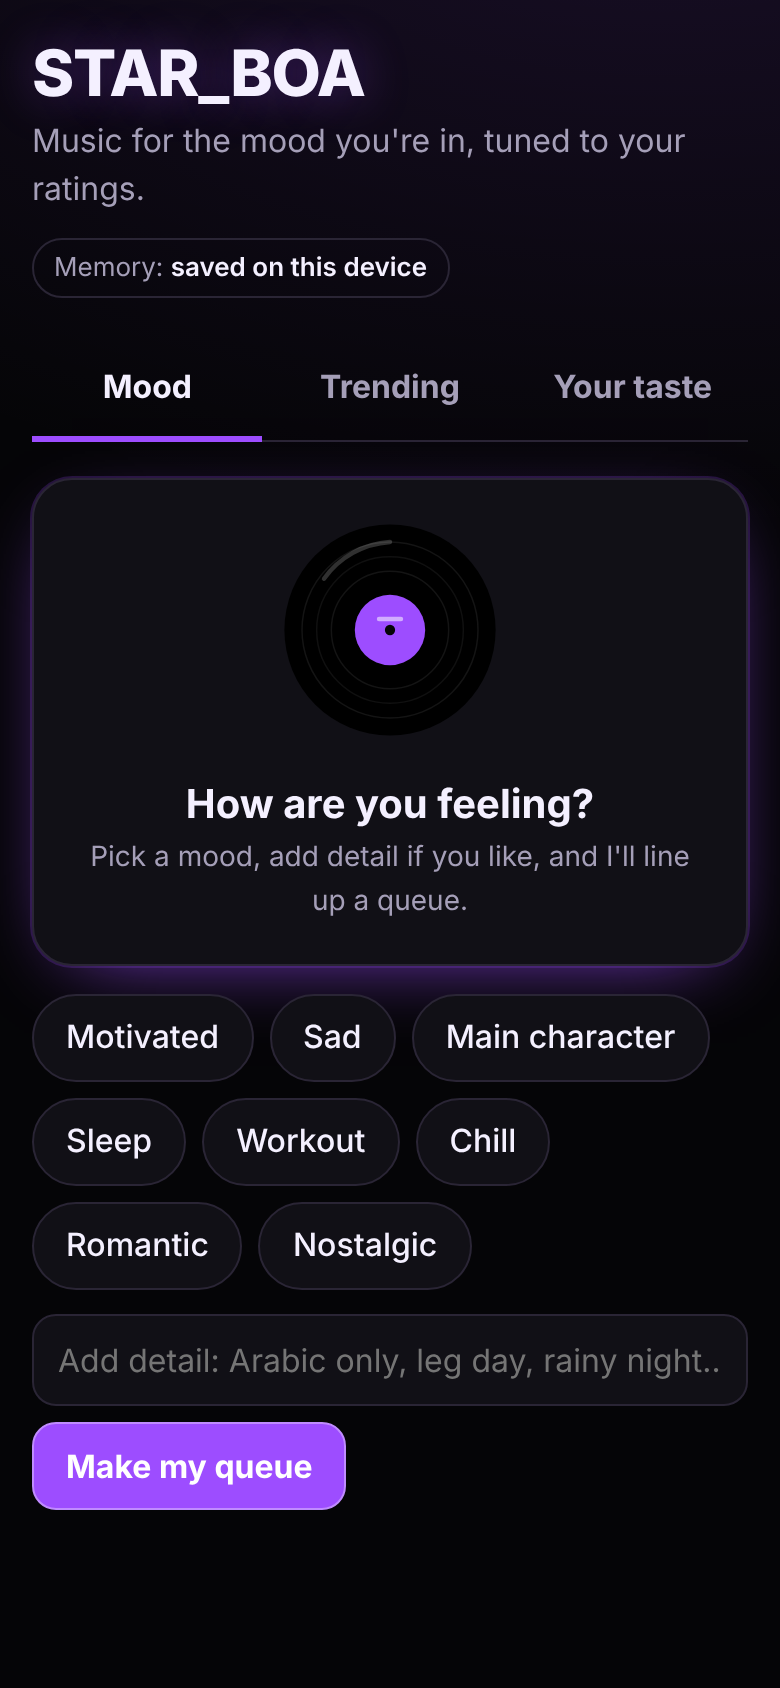
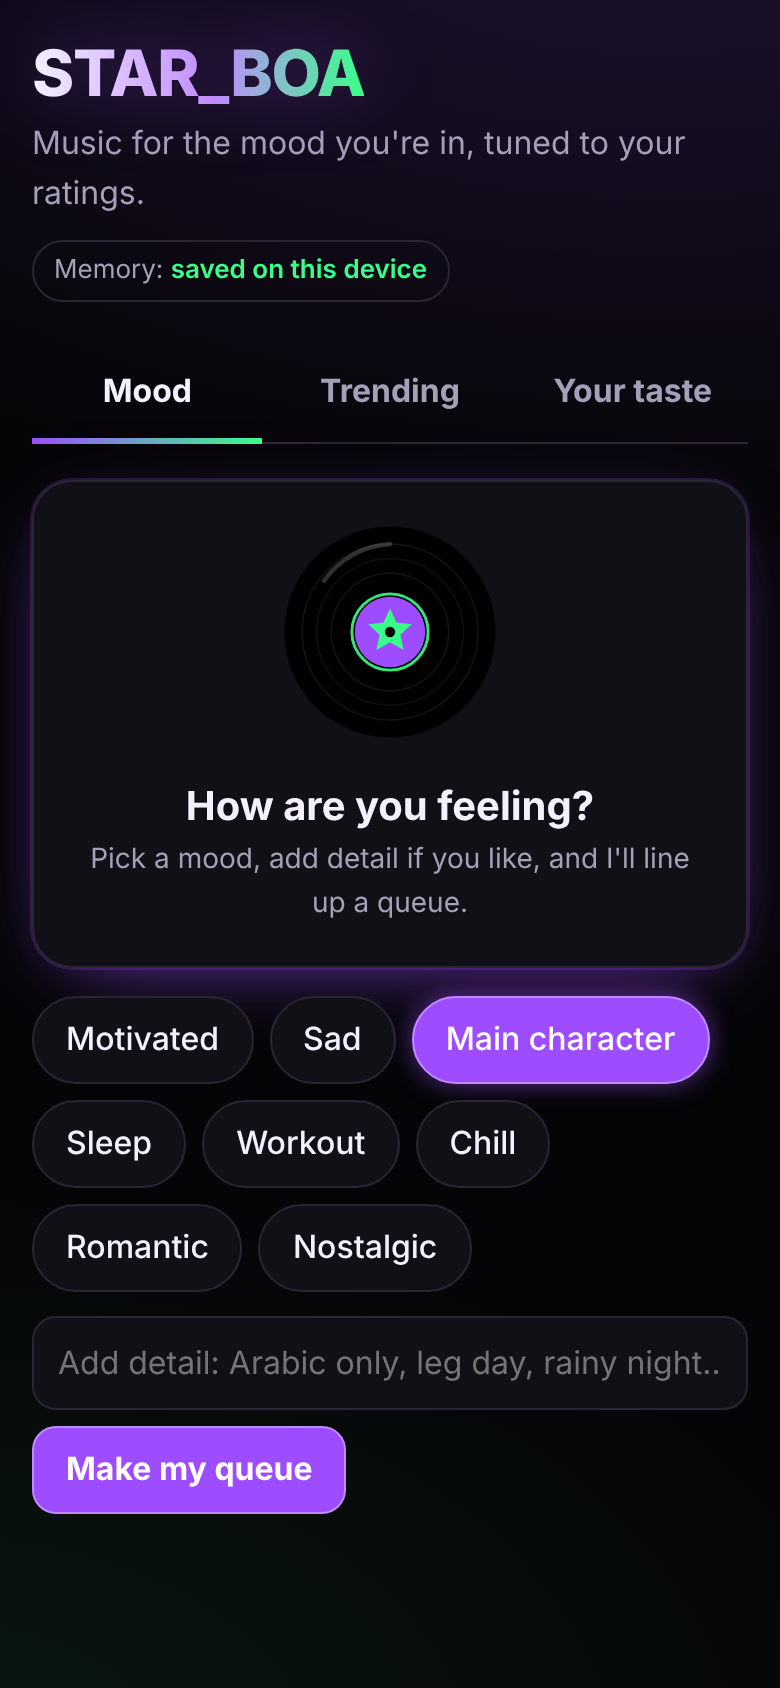
Neon green accents on black and electric purple
Claude-Session: https://claude.ai/code/session_01EesmnuVbHcScWLZNPH6eYi

diff --git a/public/styles.css b/public/styles.css
@@ -1,14 +1,19 @@
-/* STAR_BOA — black + electric purple */
+/* STAR_BOA — black, electric purple, neon green for the pop */
 :root {
   color-scheme: dark;
   --bg: #050507; --card: #111016; --ink: #f4f0ff; --mute: #a59fb8; --line: #2a2535;
   --acc: #9d4dff; --accHi: #c08bff; --glow: #9d4dff66;
+  --neon: #39ff88; --neonInk: #031a0c; --neonGlow: #39ff8866;
 }
 * { box-sizing: border-box; min-width: 0; }
 body {
   margin: 0; color: var(--ink); overflow-x: clip;
   font: 16px/1.55 Archivo, system-ui, sans-serif;
-  background: radial-gradient(900px 500px at 85% -10%, #9d4dff22, transparent 70%), var(--bg);
+  background:
+    radial-gradient(900px 500px at 85% -10%, #9d4dff2e, transparent 70%),
+    radial-gradient(700px 420px at -10% 105%, #39ff8814, transparent 70%),
+    var(--bg);
+  background-attachment: fixed;
   min-height: 100vh;
 }
 .wrap {
@@ -16,18 +21,20 @@ body {
   padding: max(20px, env(safe-area-inset-top)) max(4vw, 16px, env(safe-area-inset-right)) 64px max(4vw, 16px, env(safe-area-inset-left));
 }
 header { display: flex; align-items: center; justify-content: space-between; gap: 12px; flex-wrap: wrap; }
-h1 { font-size: clamp(32px, 7vw, 48px); line-height: 1.05; margin: 0; font-weight: 800; letter-spacing: -.02em; text-shadow: 0 0 24px var(--glow); }
+h1 { display: inline-block; font-size: clamp(32px, 7vw, 48px); line-height: 1.05; margin: 0; font-weight: 800; letter-spacing: -.02em;
+  background: linear-gradient(90deg, #f4f0ff 0%, #c08bff 55%, var(--neon) 100%); -webkit-background-clip: text; background-clip: text; color: transparent;
+  filter: drop-shadow(0 0 18px var(--glow)); }
 h2 { font-size: 22px; line-height: 1.2; margin: 28px 0 6px; }
 .h3 { font-size: 20px; margin: 0 0 4px; }
 .sub, .note { color: var(--mute); }
 .sub { margin: 4px 0 0; }
 .note { font-size: 14px; margin: 0 0 12px; }
 .pill { font-size: 13px; border: 1px solid var(--line); border-radius: 99px; padding: 4px 10px; color: var(--mute); white-space: nowrap; }
-.pill b { color: var(--ink); font-weight: 600; }
+.pill b { color: var(--neon); font-weight: 600; }
 
 nav { display: flex; gap: 6px; margin: 20px 0 18px; border-bottom: 1px solid var(--line); }
 nav a { flex: 1; text-align: center; padding: 12px 6px; color: var(--mute); text-decoration: none; font-weight: 700; border-bottom: 3px solid transparent; margin-bottom: -1px; }
-nav a[aria-current=page] { color: var(--ink); border-color: var(--acc); }
+nav a[aria-current=page] { color: var(--ink); border-image: linear-gradient(90deg, var(--acc), var(--neon)) 1; }
 section[hidden] { display: none; }
 
 button, .btn {
@@ -54,19 +61,22 @@ label { font-weight: 700; display: block; margin: 18px 0 6px; }
 .chips button { border-radius: 99px; font-weight: 500; }
 .chips button[aria-pressed=true] { background: var(--acc); border-color: var(--accHi); color: #fff; box-shadow: 0 0 12px #9d4dff88; }
 
-.msg { min-height: 22px; font-size: 14px; color: var(--mute); margin: 8px 0 0; }
+.msg { min-height: 22px; font-size: 14px; color: var(--neon); margin: 8px 0 0; }
 .err { color: #ff8fb1; }
 .row { display: flex; gap: 8px; flex-wrap: wrap; margin-top: 12px; }
 
 .np { margin-top: 16px; background: linear-gradient(160deg, #1a0b2e, #000 70%); border: 1px solid #9d4dff55; border-radius: 20px; padding: 20px; box-shadow: 0 0 40px -12px var(--acc); }
 .np .row button { flex: 1 1 auto; justify-content: center; }
+#playPause { background: var(--neon); border-color: var(--neon); color: var(--neonInk); box-shadow: 0 0 22px var(--neonGlow); }
+#playPause:hover { filter: brightness(1.08); }
 .npT { font-size: clamp(24px, 6vw, 34px); font-weight: 800; line-height: 1.1; }
+.npT::before { content: "● "; color: var(--neon); font-size: .5em; vertical-align: middle; text-shadow: 0 0 10px var(--neon); }
 .player { position: relative; aspect-ratio: 16 / 9; border-radius: 14px; overflow: hidden; background: #000; margin-bottom: 14px; }
 .player iframe, .player > div { position: absolute; inset: 0; width: 100%; height: 100%; border: 0; }
 
 .list { list-style: none; margin: 0; padding: 0; display: grid; gap: 10px; }
 .song { display: grid; grid-template-columns: 48px minmax(0, 1fr); gap: 12px; background: var(--card); border: 1px solid var(--line); border-radius: 16px; padding: 12px; }
-.song.cur { border-color: var(--acc); box-shadow: 0 0 0 2px var(--acc); }
+.song.cur { border-color: var(--neon); box-shadow: 0 0 0 2px var(--neon), 0 0 24px -6px var(--neon); }
 .lbl { width: 48px; height: 48px; border-radius: 50%; background: #000; display: grid; place-items: center; }
 .lbl i { width: 20px; height: 20px; border-radius: 50%; background: var(--h, var(--acc)); }
 .t { font-weight: 800; line-height: 1.25; }
@@ -74,15 +84,15 @@ label { font-weight: 700; display: block; margin: 18px 0 6px; }
 .why { font-size: 14px; margin: 4px 0 0; }
 .tags { display: flex; flex-wrap: wrap; gap: 6px; margin-top: 6px; }
 .tag { font-size: 13px; padding: 2px 8px; border-radius: 99px; background: #9d4dff26; }
-.tag.src { background: transparent; border: 1px solid var(--line); color: var(--mute); }
+.tag.src { background: transparent; border: 1px solid #39ff8855; color: var(--neon); }
 .acts { display: flex; flex-wrap: wrap; gap: 6px; margin-top: 10px; }
 .acts .btn, .acts button { min-height: 40px; padding: 0 12px; font-size: 14px; border-radius: 10px; }
 
 .rq { font-weight: 700; font-size: 14px; margin: 12px 0 0; }
-.score { font-weight: 800; color: var(--accHi); }
+.score { font-weight: 800; color: var(--neon); }
 .rate { display: grid; grid-template-columns: repeat(10, minmax(0, 1fr)); gap: 4px; margin-top: 8px; }
 .rate button { min-height: 40px; padding: 0; justify-content: center; border-radius: 8px; font-size: 14px; }
-.rate button[aria-pressed=true] { background: var(--acc); border-color: var(--accHi); color: #fff; box-shadow: 0 0 12px #9d4dff99; }
+.rate button[aria-pressed=true] { background: var(--neon); border-color: var(--neon); color: var(--neonInk); box-shadow: 0 0 14px var(--neonGlow); }
 
 .mem { display: flex; flex-wrap: wrap; gap: 6px; }
 .mem span { display: inline-flex; align-items: center; gap: 4px; background: var(--card); border: 1px solid var(--line); border-radius: 99px; padding: 2px 4px 2px 10px; font-size: 14px; }

diff --git a/public/index.html b/public/index.html
@@ -39,8 +39,9 @@
           <circle cx="75" cy="75" r="50" fill="none" stroke="#ffffff10"/>
           <circle cx="75" cy="75" r="40" fill="none" stroke="#ffffff14"/>
           <path d="M30 40 A60 60 0 0 1 75 15" stroke="#ffffff30" stroke-width="3" fill="none" stroke-linecap="round"/>
+          <circle cx="75" cy="75" r="26" fill="none" stroke="#39ff88" stroke-width="2" opacity=".9"/>
           <circle cx="75" cy="75" r="24" fill="#9d4dff"/>
-          <rect x="66" y="66" width="18" height="3" rx="1.5" fill="#fff8"/>
+          <path d="M75 59 l4.4 9.6 10.4 1.2 -7.7 7.1 2.1 10.3 -9.2 -5.2 -9.2 5.2 2.1 -10.3 -7.7 -7.1 10.4 -1.2z" fill="#39ff88"/>
           <circle cx="75" cy="75" r="3.5" fill="#050507"/>
         </g>
       </svg>

diff --git a/public/sw.js b/public/sw.js
@@ -1,6 +1,6 @@
 // Minimal service worker: caches the app shell so STAR_BOA opens instantly and installs as an app.
 // API calls always go to the network (charts and picks must be fresh).
-const CACHE = "star-boa-v2";
+const CACHE = "star-boa-v3";
 const SHELL = ["/", "/index.html", "/styles.css", "/app.js", "/icon.svg", "/manifest.webmanifest"];
 
 self.addEventListener("install", (e) => {
